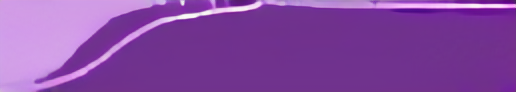
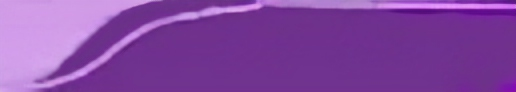
blue interface

diff --git a/src/ts/Editor/Menus/App Interface.ts b/src/ts/Editor/Menus/App Interface.ts
@@ -105,6 +105,49 @@ export class AppInterfacePurpleColors implements ICallableDivInstance {
         element.style.backgroundColor = '#492D56'
         element.style.border = '6px ridge #11819a'
         element.style.color = 'white';
+        element = document.getElementById('barTabImg')
+        element.style.visibility = 'visible'
+
+    }
+}
+export class AppInterfaceBlueColors implements ICallableDivInstance {
+    run() {
+        Editor.GetDocumentEditor().titleBar.updateBackground(new Color( new RGBA(75,90,193,255)))
+
+        var elements = document.querySelectorAll<HTMLDivElement>('.panels');
+        for(var i=0; i<elements.length; i++){
+            elements[i].style.color = "black"
+            elements[i].style.backgroundImage = 'none'
+            elements[i].style.backgroundColor = '#67A2C2'
+        }
+
+        
+        var elements = document.querySelectorAll<HTMLDivElement>('.panelDebugBackground');
+        for(var i=0; i<elements.length; i++){
+            elements[i].style.backgroundImage = 'none'
+            elements[i].style.backgroundColor = '#4057C7'
+        }
+
+        let element = document.getElementById('barTab')
+        element.style.backgroundImage = 'none'
+        element.style.backgroundColor = '#6EADBE'
+        element = document.getElementById('barRibbon')
+        element.style.backgroundImage = 'none'
+        element.style.backgroundColor = '#4057C7'
+        element = document.getElementById('panelDebug')
+        element.style.backgroundImage = 'none'
+        element.style.backgroundColor = '#497C9B'
+        element = document.getElementById('barTabInner')
+        element.style.backgroundColor = '#222B70'
+        element.style.border = '2px solid #6EADBE'
+        element.style.clipPath = 'polygon(0 0, 100% 0, 81% 100%, 0% 100%)';
+        element.style.width = "450px"
+        element = document.getElementById('originMode')
+        element.style.backgroundColor = '#1B3A4F'
+        element.style.border = '6px ridge rgb(78, 114, 140)'
+        element.style.color = 'white';
+        element = document.getElementById('barTabImg')
+        element.style.visibility = 'hidden'
 
     }
 }

diff --git a/src/ts/Editor/Editor.ts b/src/ts/Editor/Editor.ts
@@ -15,7 +15,7 @@ import CreateFrameAtSelected from "../Commands/Implementation/CreateFrameAtSelec
 import { ExportJass, ExportLua, ExportTS } from "../Classes & Functions/Export";
 import NewDocument from "../Persistence/NewDocument";
 import { BackgroundTexture } from "./Menus/Backgrounds";
-import { AppInterfaceWoodenTexture, AppInterfaceBrownColors, AppInterfacePurpleColors } from "./Menus/App Interface";
+import { AppInterfaceWoodenTexture, AppInterfaceBrownColors, AppInterfacePurpleColors, AppInterfaceBlueColors } from "./Menus/App Interface";
 import { Titlebar, Color, RGBA } from 'custom-electron-titlebar'
 
 export class Editor {
@@ -81,6 +81,7 @@ export class Editor {
         ribAppInterface.addMenuOption('Wooden Interface', new AppInterfaceWoodenTexture)
         ribAppInterface.addMenuOption('Brownish Interface', new AppInterfaceBrownColors)
         ribAppInterface.addMenuOption('Purple Interface', new AppInterfacePurpleColors)
+        ribAppInterface.addMenuOption('Blue Interface', new AppInterfaceBlueColors)
 
         const ribBackground = new RibbonOption('Background/Resolution', null)
         viewMenu.addRibbonOption(ribBackground);

diff --git a/src/layout/styles.css b/src/layout/styles.css
@@ -46,6 +46,7 @@ body{
     background-color: #B87E59;
     background-color: rgb(115, 49, 146);
     background-image: url('./files/barTabImg.png');
+    visibility: hidden;
     
     display: flex;
 }
